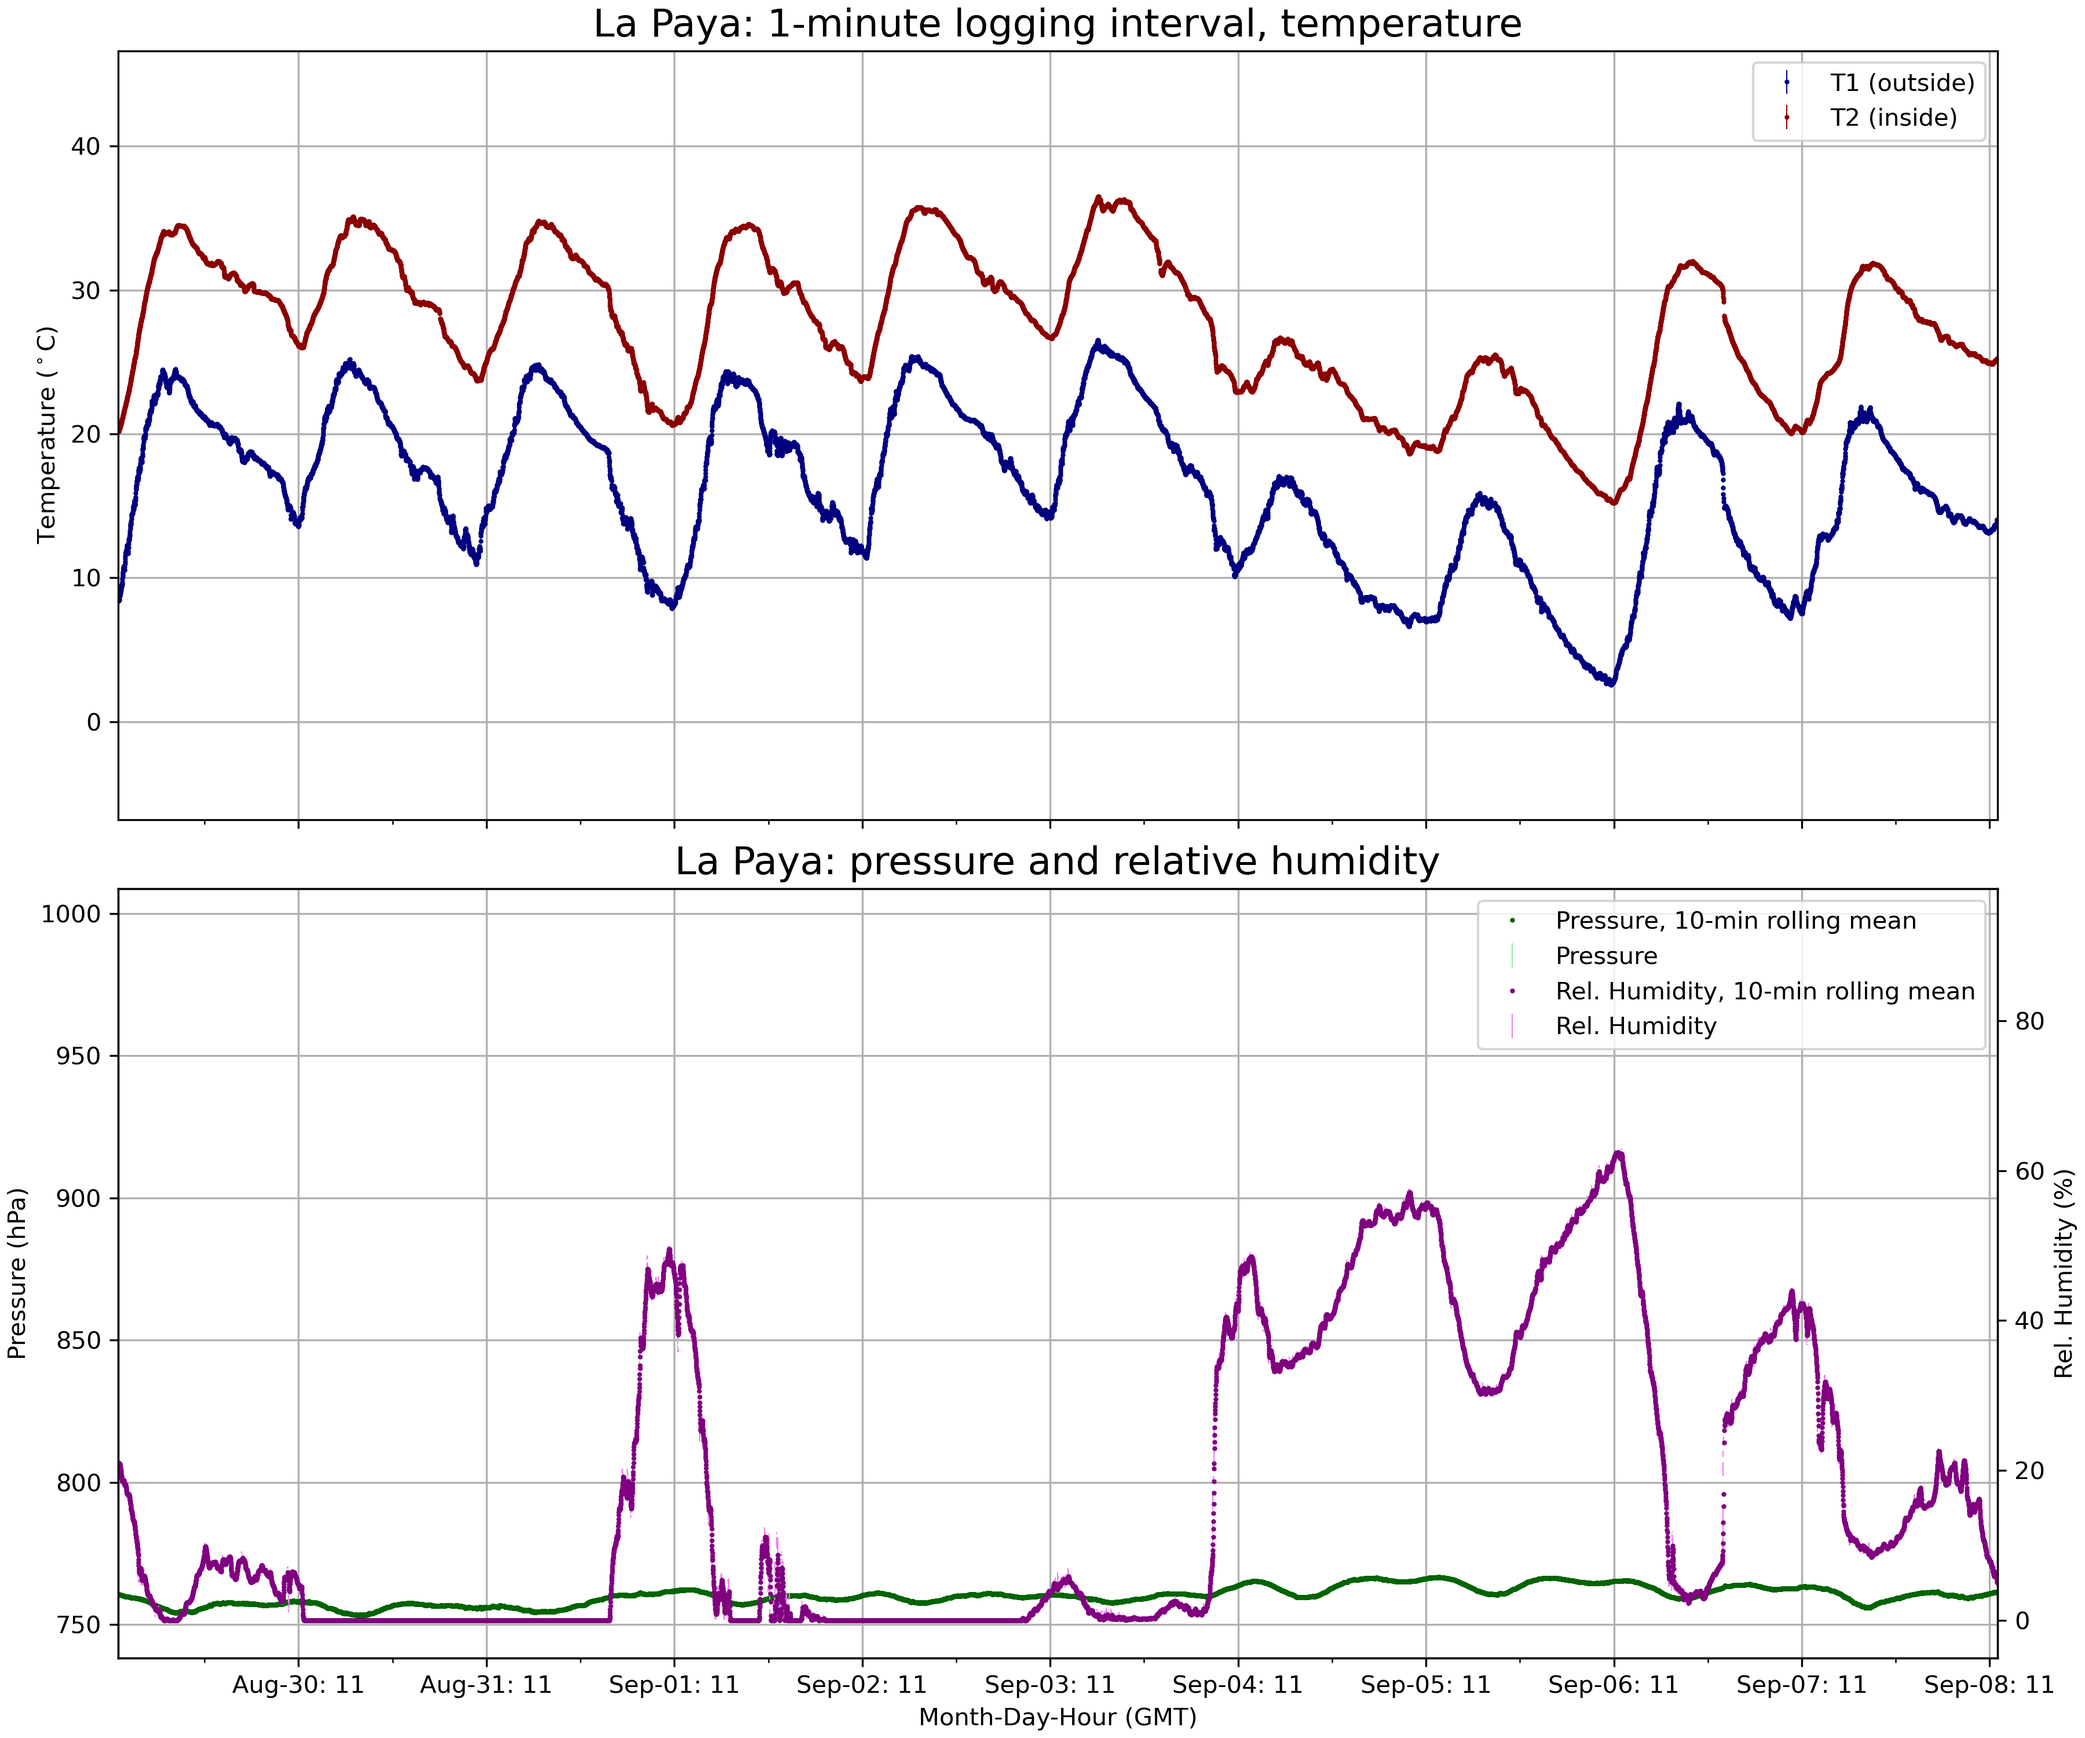
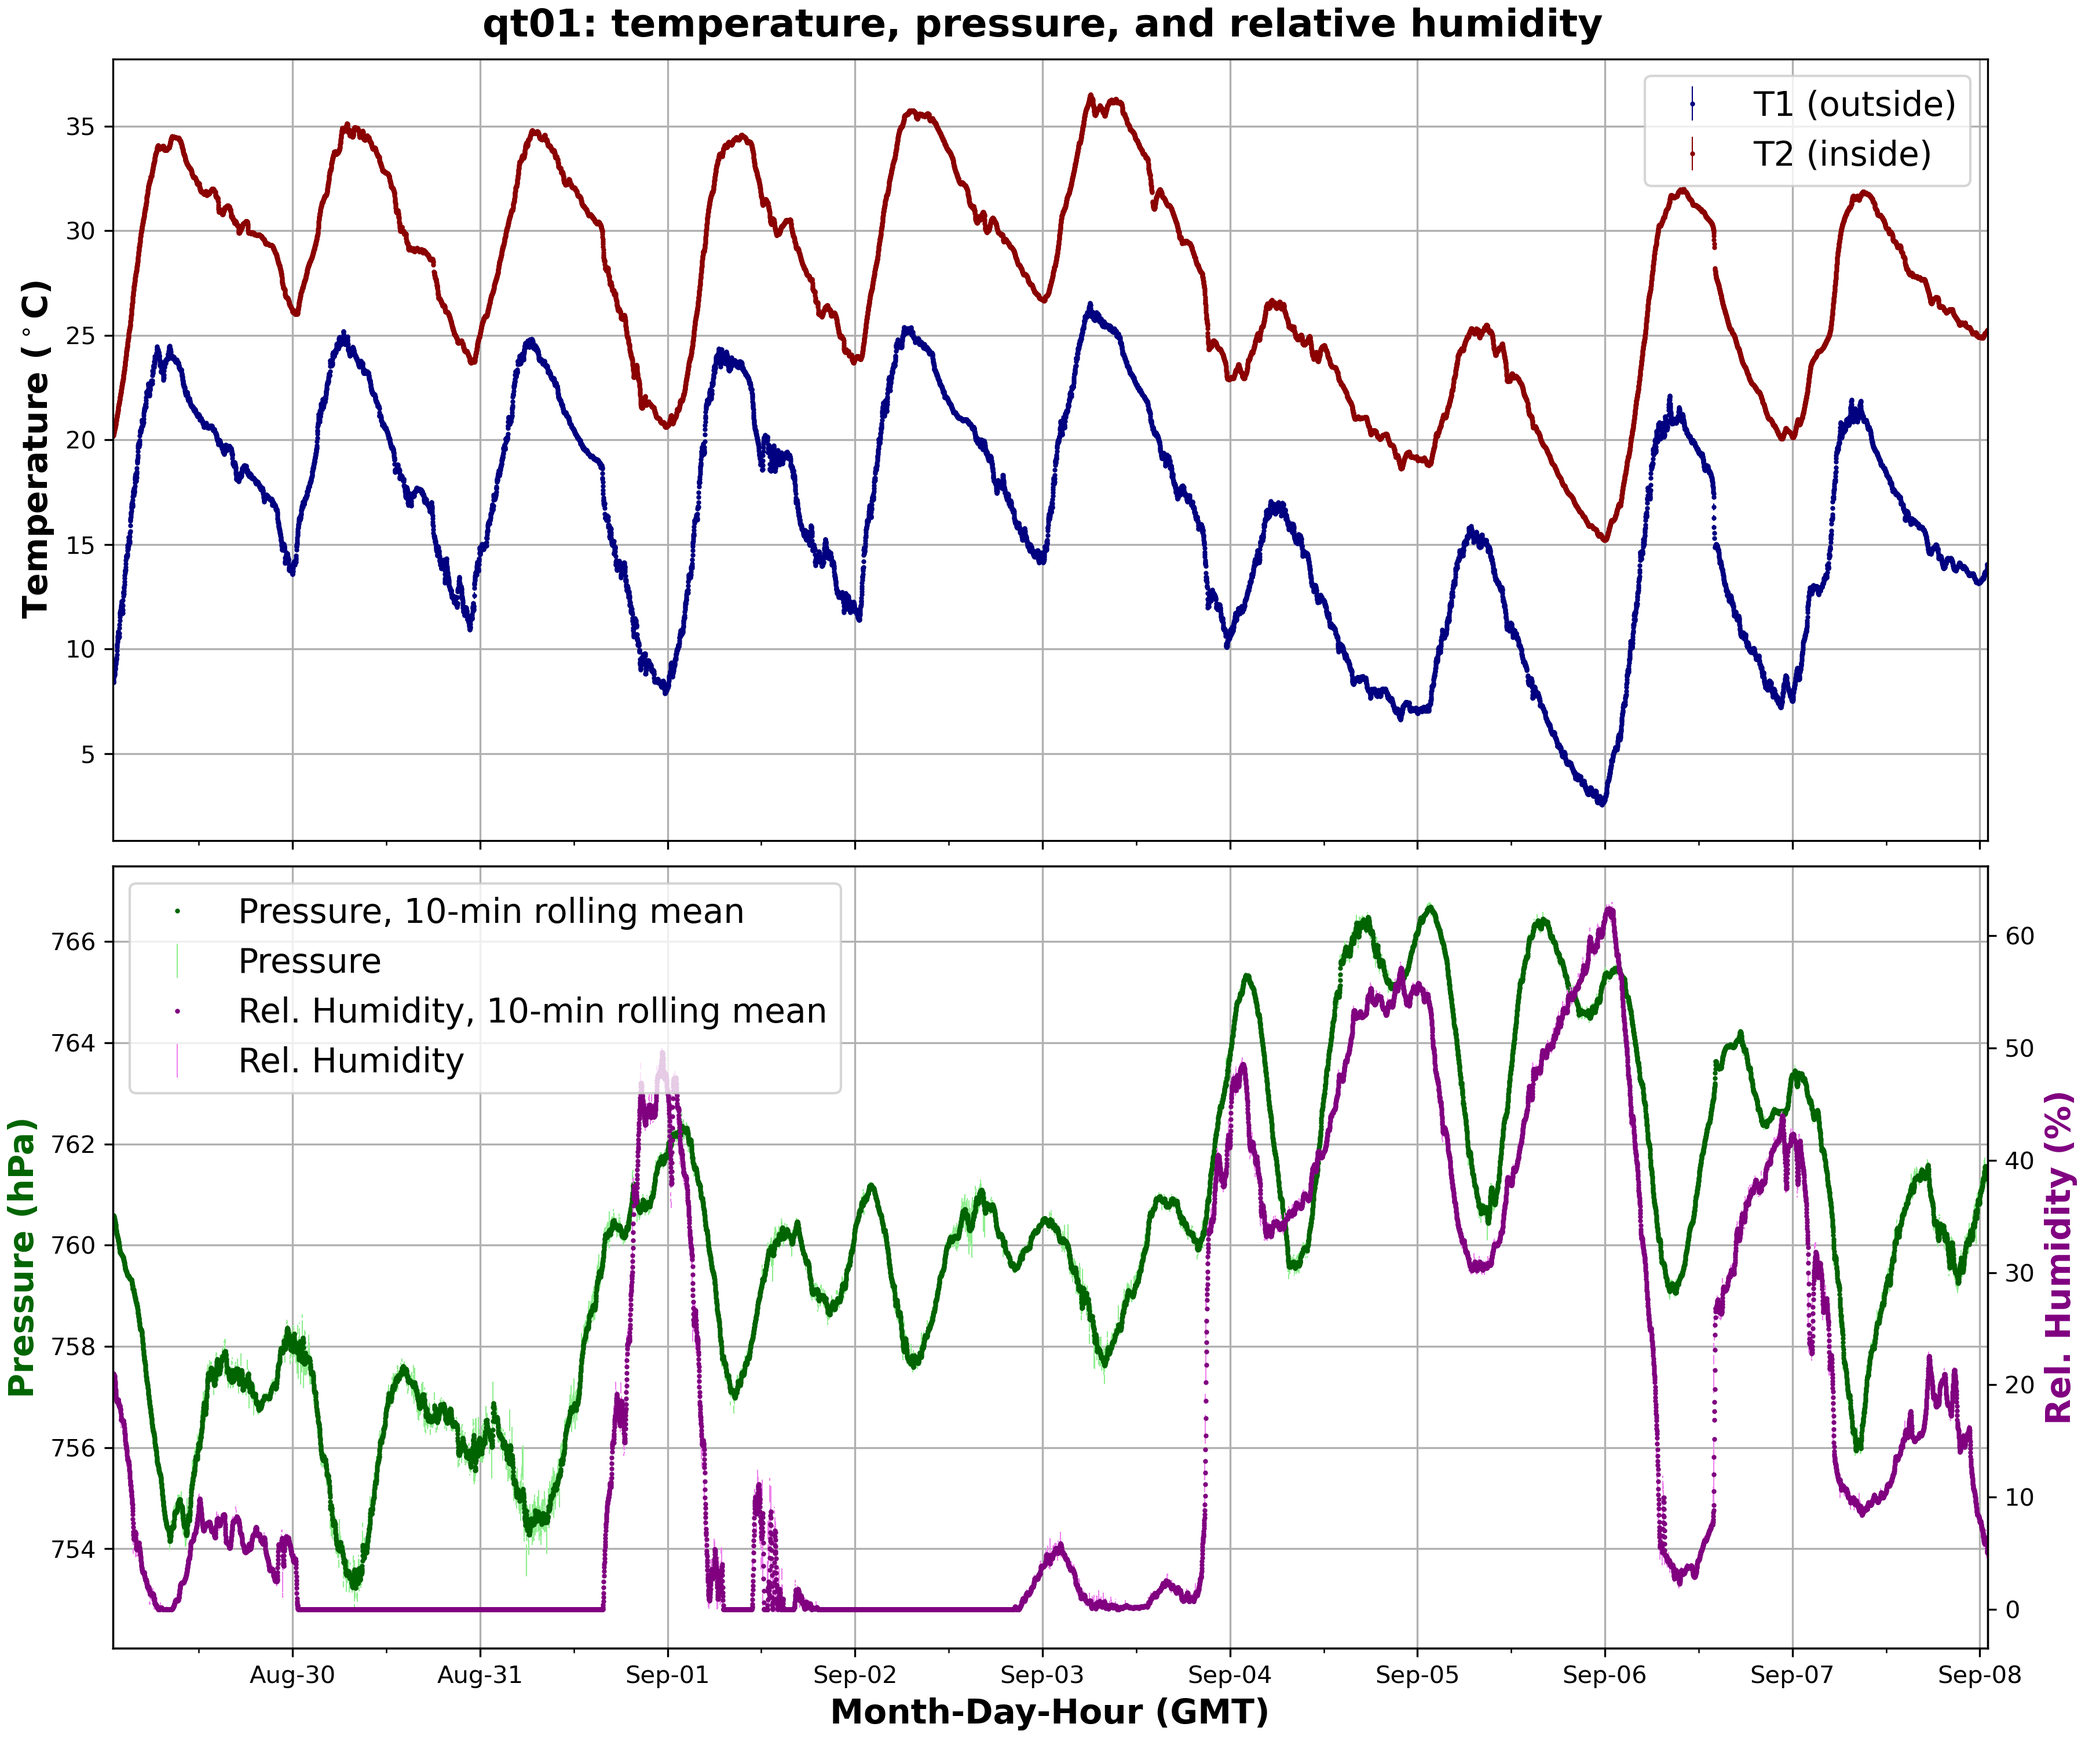
09-10-2025

diff --git a/ClimData/codes/read_meteorologic_data.py b/ClimData/codes/read_meteorologic_data.py
@@ -63,9 +63,16 @@ df_all_noNat.drop(["TMP"], axis=1, inplace=True)
 # df_all[df_all.index.isnull()]
 df_all = df_all_noNat.copy()
 df_all_noNat = None
+start_time = np.max(df_all.index) - np.timedelta64(10, "D")
+start_time.replace(hour=0, minute=0, second=0, microsecond=0)
+end_time = np.max(df_all.index)
+end_time.replace(hour=23, minute=59, second=59, microsecond=0)
+mask = (df_all.index > start_time) & (df_all.index <= end_time)
+df_all = df_all.loc[mask]
+df_all = df_all.resample("1Min").mean()
 
-df_all["rh_10m_rolling_average"] = df_all["rh"].rolling("10min").mean()
-df_all["P_hpa_10m_rolling_average"] = df_all["P_hpa"].rolling("10min").mean()
+df_all["rh_10m_rolling_average"] = df_all["rh"].rolling("10Min").mean()
+df_all["P_hpa_10m_rolling_average"] = df_all["P_hpa"].rolling("10Min").mean()
 
 fg, ax = plt.subplots(
     nrows=2, ncols=1, figsize=(12, 10), dpi=300, layout="constrained", sharex=True
@@ -93,22 +100,17 @@ ax[0].errorbar(
     label="T2 (inside)",
 )
 ax[0].grid()
-# ax[0].set_xlabel("Month-Day: Hour (GMT)")
-ax[0].set_ylabel(r"Temperature ($^\circ$C)")
-ax[0].legend()
-date_form = DateFormatter("%b-%d: %H")
+ax[0].set_ylabel(r"Temperature ($^\circ$C)", fontsize=14, fontweight="bold")
+ax[0].legend(prop={"size": 14})
+date_form = DateFormatter("%b-%d")
 date_form.set_tzinfo(gettz("GMT"))
 ax[0].xaxis.set_major_formatter(date_form)
-ax[0].xaxis.set_major_locator(mdates.HourLocator(interval=24))
-start_time = np.max(df_all.index) - np.timedelta64(10, "D")
-start_time.replace(hour=0, minute=0, second=0, microsecond=0)
-end_time = np.max(df_all.index)
-end_time.replace(hour=23, minute=59, second=59, microsecond=0)
+ax[1].xaxis.set_major_locator(mdates.HourLocator(interval=24))
+ax[1].xaxis.set_minor_locator(mdates.HourLocator(interval=12))
 ax[0].set_xlim([start_time, end_time])
-ax[0].set_title(
-    "%s: 1-minute logging interval, temperature" % station_name, fontsize=16
-)
-
+# ax[0].set_title(
+#     "%s: 1-minute logging interval, temperature" % station_name, fontsize=16
+# )
 ax1b = ax[1].twinx()
 lns1 = ax[1].errorbar(
     x=df_all.index,
@@ -117,7 +119,6 @@ lns1 = ax[1].errorbar(
     linestyle="",
     lw=0.5,
     color="lightgreen",
-    label="Pressure",
 )
 lns2 = ax1b.errorbar(
     x=df_all.index,
@@ -126,7 +127,6 @@ lns2 = ax1b.errorbar(
     linestyle="",
     lw=0.5,
     color="violet",
-    label="Rel. Humidity",
 )
 ax1b.plot(
     df_all.index,
@@ -147,93 +147,96 @@ ax[1].plot(
     label="Pressure, 10-min rolling mean",
 )
 ax[1].grid()
-ax[1].set_xlabel("Month-Day-Hour (GMT)")
-ax[1].set_ylabel("Pressure (hPa)")
-ax1b.set_ylabel("Rel. Humidity (%)")
+ax[1].set_xlabel("Month-Day-Hour (GMT)", fontsize=14, fontweight="bold")
+ax[1].set_ylabel("Pressure (hPa)", fontsize=14, color="darkgreen", fontweight="bold")
+ax1b.set_ylabel("Rel. Humidity (%)", fontsize=14, color="purple", fontweight="bold")
 lines, labels = ax[1].get_legend_handles_labels()
 lines2, labels2 = ax1b.get_legend_handles_labels()
-ax1b.legend(lines + lines2, labels + labels2, loc=0)
+ax1b.legend(lines + lines2, labels + labels2, loc=0, prop={"size": 14})
 ax[1].xaxis.set_major_formatter(date_form)
 ax[1].xaxis.set_major_locator(mdates.HourLocator(interval=24))
 ax[1].xaxis.set_minor_locator(mdates.HourLocator(interval=12))
-ax[1].set_title("%s: pressure and relative humidity" % station_name, fontsize=16)
 ax[1].set_xlim([start_time, end_time])
+fg.suptitle(
+    "%s: temperature, pressure, and relative humidity" % station_name,
+    fontsize=16,
+    fontweight="bold",
+)
 # ax[1].set_xlim([np.max(df_all.index) - np.timedelta64(10,'D'), np.max(df_all.index)])
 fg.savefig("%s_TempP_last10days.png" % file_prefix, dpi=300)
 plt.close(fg)
 
-
-fg, ax = plt.subplots(nrows=2, ncols=1, figsize=(12, 10), dpi=300, layout="constrained")
-ax[0].errorbar(
-    x=df_all.index,
-    y=df_all["T1_C"],
-    yerr=df_all["T1_C_sd"],
-    linestyle="",
-    marker="o",
-    ms=0.5,
-    lw=0.2,
-    color="navy",
-    label="T1 (outside)",
-)
-ax[0].grid()
-# ax[0].set_xlabel("Year.Month.Day")
-ax[0].set_ylabel(r"Temperature ($^\circ$C)")
-ax[0].legend()
-date_form = DateFormatter("%Y.%m.%d")
-date_form.set_tzinfo(gettz("GMT"))
-ax[0].xaxis.set_major_formatter(date_form)
-end_time = np.max(df_all.index)
-end_time.replace(hour=23, minute=59, second=59, microsecond=0)
-ax[0].set_title("%s: 1-minute logging interval, temperature" % station_name)
-
-ax1b = ax[1].twinx()
-lns1 = ax[1].errorbar(
-    x=df_all.index,
-    y=df_all["P_hpa"],
-    yerr=df_all["P_hpa_sd"],
-    linestyle="",
-    lw=0.1,
-    color="lightgreen",
-    label="Pressure",
-)
-lns2 = ax1b.errorbar(
-    x=df_all.index,
-    y=df_all["rh"],
-    yerr=df_all["rh_sd"],
-    linestyle="",
-    lw=0.1,
-    color="violet",
-    label="Rel. Humidity",
-)
-ax1b.plot(
-    df_all.index,
-    df_all["rh_10m_rolling_average"],
-    marker="o",
-    ms=0.5,
-    linestyle="",
-    color="purple",
-    label="Rel. Humidity, 10-min rolling mean",
-)
-ax[1].plot(
-    df_all.index,
-    df_all["P_hpa_10m_rolling_average"],
-    marker="o",
-    ms=0.5,
-    linestyle="",
-    color="darkgreen",
-    label="Pressure, 10-min rolling mean",
-)
-ax[1].grid()
-ax[1].set_xlabel("Year.Month.Day")
-ax[1].set_ylabel("Pressure (hPa)")
-ax1b.set_ylabel("Rel. Humidity (%)")
-lines, labels = ax[1].get_legend_handles_labels()
-lines2, labels2 = ax1b.get_legend_handles_labels()
-ax1b.legend(lines + lines2, labels + labels2, loc=0)
-ax[1].xaxis.set_major_formatter(date_form)
-# ax[1].xaxis.set_major_locator(mdates.HourLocator(interval=12))
-# ax[1].xaxis.set_minor_locator(mdates.HourLocator(interval=6))
-ax[1].set_title("Station %s: pressure and relative humidity" % station_name)
-# ax[1].set_xlim([np.max(df_all.index) - np.timedelta64(5,'D'), np.max(df_all.index)])
-fg.savefig("%s_TempP.png" % file_prefix, dpi=300)
-plt.close(fg)
+#
+# fg, ax = plt.subplots(nrows=2, ncols=1, figsize=(12, 10), dpi=300, layout="constrained")
+# ax[0].errorbar(
+#     x=df_all.index,
+#     y=df_all["T1_C"],
+#     yerr=df_all["T1_C_sd"],
+#     linestyle="",
+#     marker="o",
+#     ms=0.5,
+#     lw=0.2,
+#     color="navy",
+#     label="T1 (outside)",
+# )
+# ax[0].grid()
+# # ax[0].set_xlabel("Year.Month.Day")
+# ax[0].set_ylabel(r"Temperature ($^\circ$C)")
+# ax[0].legend()
+# date_form = DateFormatter("%Y.%m.%d")
+# date_form.set_tzinfo(gettz("GMT"))
+# ax[0].xaxis.set_major_formatter(date_form)
+# end_time = np.max(df_all.index)
+# end_time.replace(hour=23, minute=59, second=59, microsecond=0)
+# ax[0].set_title("%s: 1-minute logging interval, temperature" % station_name)
+# ax1b = ax[1].twinx()
+# lns1 = ax[1].errorbar(
+#     x=df_all.index,
+#     y=df_all["P_hpa"],
+#     yerr=df_all["P_hpa_sd"],
+#     linestyle="",
+#     lw=0.1,
+#     color="lightgreen",
+#     label="Pressure",
+# )
+# lns2 = ax1b.errorbar(
+#     x=df_all.index,
+#     y=df_all["rh"],
+#     yerr=df_all["rh_sd"],
+#     linestyle="",
+#     lw=0.1,
+#     color="violet",
+#     label="Rel. Humidity",
+# )
+# ax1b.plot(
+#     df_all.index,
+#     df_all["rh_10m_rolling_average"],
+#     marker="o",
+#     ms=0.5,
+#     linestyle="",
+#     color="purple",
+#     label="Rel. Humidity, 10-min rolling mean",
+# )
+# ax[1].plot(
+#     df_all.index,
+#     df_all["P_hpa_10m_rolling_average"],
+#     marker="o",
+#     ms=0.5,
+#     linestyle="",
+#     color="darkgreen",
+#     label="Pressure, 10-min rolling mean",
+# )
+# ax[1].grid()
+# ax[1].set_xlabel("Year.Month.Day")
+# ax[1].set_ylabel("Pressure (hPa)")
+# ax1b.set_ylabel("Rel. Humidity (%)")
+# lines, labels = ax[1].get_legend_handles_labels()
+# lines2, labels2 = ax1b.get_legend_handles_labels()
+# ax1b.legend(lines + lines2, labels + labels2, loc=0)
+# ax[1].xaxis.set_major_formatter(date_form)
+# # ax[1].xaxis.set_major_locator(mdates.HourLocator(interval=12))
+# # ax[1].xaxis.set_minor_locator(mdates.HourLocator(interval=6))
+# ax[1].set_title("Station %s: pressure and relative humidity" % station_name)
+# # ax[1].set_xlim([np.max(df_all.index) - np.timedelta64(5,'D'), np.max(df_all.index)])
+# fg.savefig("%s_TempP.png" % file_prefix, dpi=300)
+# plt.close(fg)

diff --git a/_pages/StationGallery.md b/_pages/StationGallery.md
@@ -59,7 +59,6 @@ stations4:
     url: '/images/12_Metan.jpg'
 
 ---
-# Researchers
 
 {% include feature_row id="stations1" type=center%}
 
